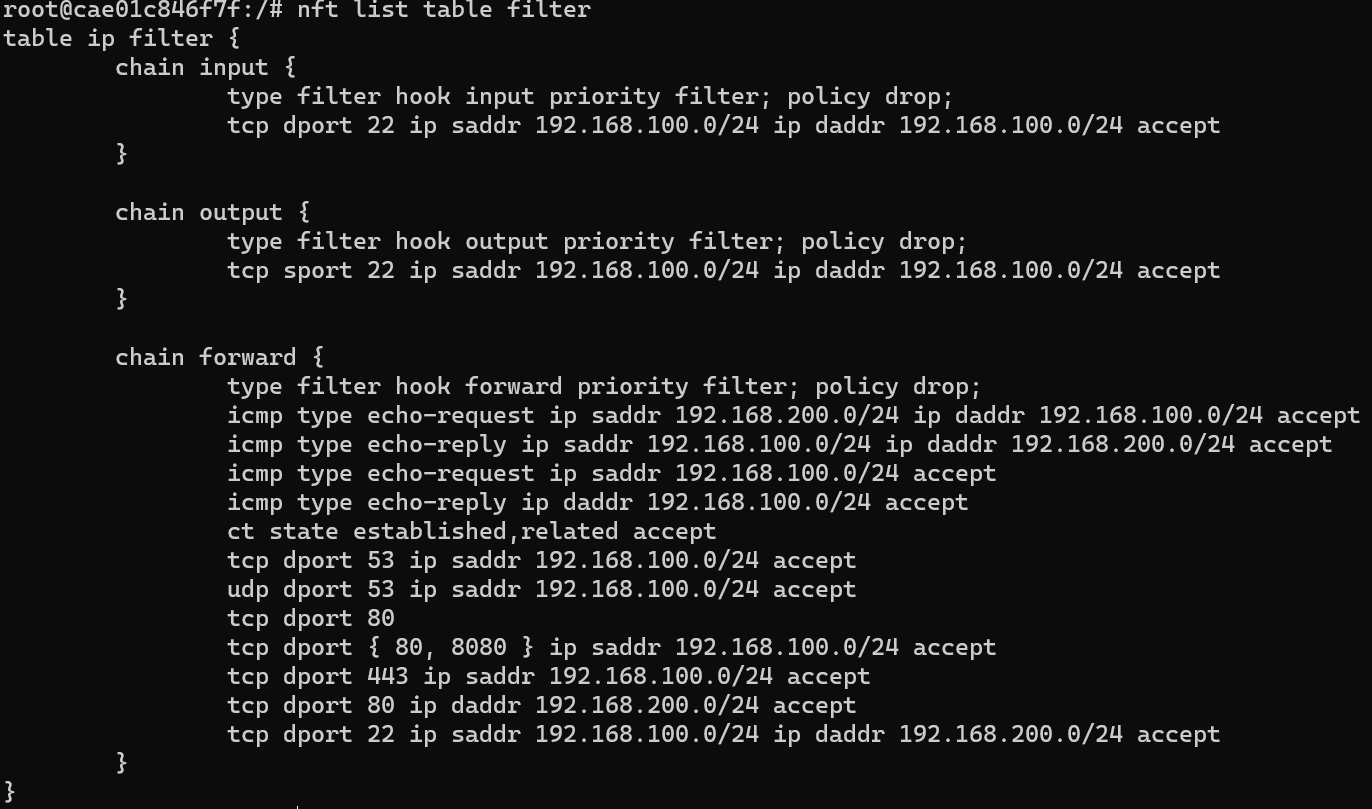
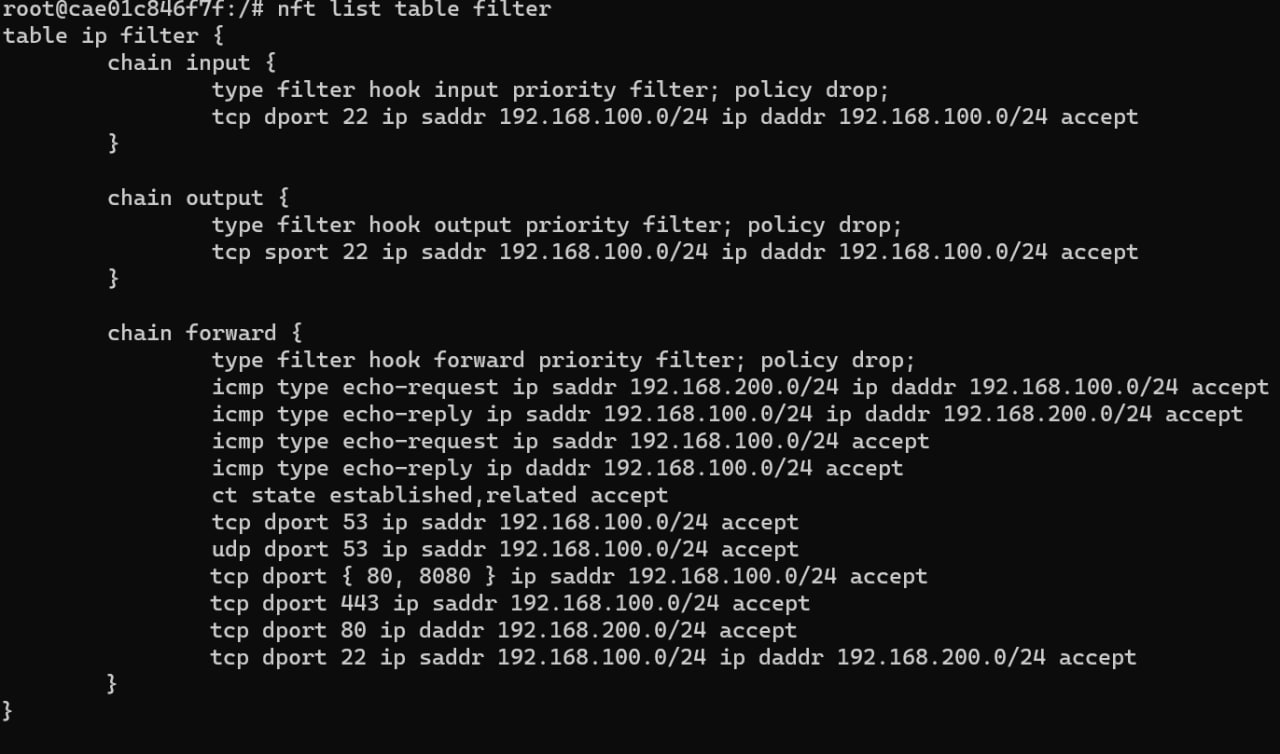
correct readme

Changed region(s): [[0.1562, 0.7321, 0.9062, 0.9151]]

diff --git a/README.md b/README.md
@@ -659,9 +659,10 @@ Connexion HTTP sur le serveur DMZ :
 Commandes nftables :
 
 ---
+LIVRABLE : Commandes nftables
 
 ```bash
-LIVRABLE : Commandes nftables
+
 
 # règle permettant au client de se connecter au serveur de la DMZ via SSH.
 nft add rule filter forward tcp dport 22 ip saddr 192.168.100.3/24 ip daddr 192.168.200.3/24 accept
@@ -721,7 +722,7 @@ si le serveur n'est pas en local.
 
 **LIVRABLE : Votre réponse ici...**
 
-Etre bien sûr qu'il n'y pas n'importe qui ait accès à ce port (éviter par exemple de le laisser accessible pour le WAN) 
+Etre sûr qu'il n'y a pas n'importe qui ait accès à ce port (éviter par exemple de le laisser accessible pour le WAN) 
 et que le serveur sur lequel on se connecte possède un logiciel à jour pour les connexions SSH.
 
 
@@ -748,6 +749,5 @@ Règles de la table filter :
 
 ![Règles firewall table filter](figures/ListeRegleFirewall.PNG)
 
-ERREUR DANS LA CAPTURE D ECRAN Y A UN "tcp dport 80" EN TROP FAUT REFAIRE LA CAPTURE.
 
 ---
